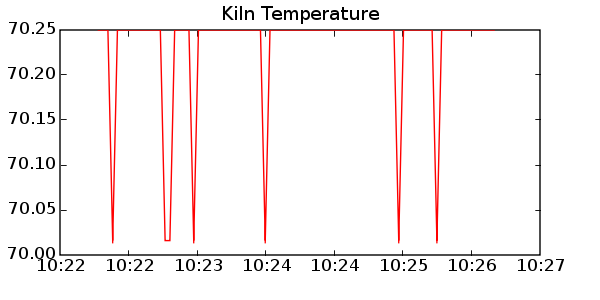
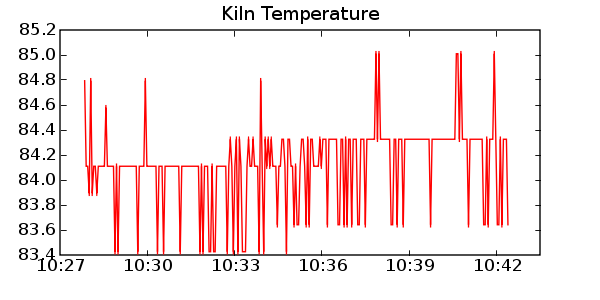
This is after a bunch of work with the wx widgets version, changing over to the matplotlib wxbackground api instead of pylab and static images.

diff --git a/wxgauge/wxthermo_working_copy.py b/wxgauge/wxthermo_working_copy.py
@@ -1,21 +1,18 @@
 #!/usr/bin/python
 
 import wx,os,sys,math,time,matplotlib
-matplotlib.interactive(False)
-#Use the WxAgg back end. The Wx one takes too long to render
-matplotlib.use('WX')
-from matplotlib.backends.backend_wxagg import Toolbar,FigureCanvasWx,FigureManager
-from matplotlib.figure import Figure
+from datetime import datetime
+from pygame.locals import *
 from matplotlib.dates import date2num
 from matplotlib.dates import num2date
 from matplotlib.dates import DateFormatter
 from matplotlib.dates import HourLocator, MinuteLocator
 from matplotlib.ticker import Locator, FormatStrFormatter
-
-from datetime import datetime
 from time import gmtime, strftime
 from thermo_functions import *
 
+matplotlib.use('Agg')
+import pylab
 
 
 class MainFrame(wx.Frame):
@@ -27,31 +24,20 @@ class MainFrame(wx.Frame):
         #Unique Sensor IDs
         self.id1 = '30ED284B1000008F'
         self.id2 = '3063294B100000BB'
-        #Starting Temperatures for the gauges
+        
         self.ambient_F = 70
         self.kiln_F = 1000
-        #Initialize the plot data arrays
         self.kiln_temp = []
         self.date = []
-        self.count = 0
-        self.x = []
-        #Setup the Plotting Figure and Canvas Load Blank Graph
-        self.figure = Figure((8,4) , 75)
-        self.canvas = FigureCanvasWx(self, -1, self.figure)
-        self.canvas.CenterOnParent()
-        self.toolbar = Toolbar(self.canvas)
-        self.toolbar.Realize()
-        self.load_graph()
-        #Instantiate the Two Thermometers One for the Kiln One for ambient
+        
         self.ambient=Thermometer('amb_F',0,0,os.path.join("images",'ambient_F.png'),self)
         self.kiln=Thermometer('kiln_F_H',675,0,os.path.join("images",'kiln_FH.png'),self)
-        #Startup the Event timer set it for 3 second roll over
+        
         self.timer = wx.Timer(self)
         self.Bind(wx.EVT_TIMER, self.onTick,self.timer)
         self.timer.Start(3000)
-        #Bind the screen redraws to the PaintAll method in the Thermometer Class
-        self.Bind(wx.EVT_PAINT, self.PaintAll)
         
+        self.Bind(wx.EVT_PAINT, self.PaintAll)
     
         
         #Menu Items
@@ -84,23 +70,25 @@ class MainFrame(wx.Frame):
         self.ambient.OnPaint()
         self.kiln.OnPaint()
         
+        
         #Get Celcius From First Thermo
         self.celsius = get_celsius(self.id1)
         self.celsius_reverse = reverse_poly(self.celsius)
         self.ambient_F=(((self.celsius*9.0)/5.0)+32)
         time.sleep(1)
         
+        
         #Get uV from first Thermo
         self.uv = get_uv(self.id1)
         self.uv = self.uv + self.celsius_reverse
         self.temp_uv = convert_uv(self.uv)
         self.kiln_F = (((self.temp_uv*9.0)/5.0)+32)
-        
         #Make sure thermo measurement is not less then ambient
         if (self.kiln_F < self.ambient_F):
             self.kiln_F = self.ambient_F
         
-        print "Ambient===>",self.ambient_F,"kiln Temp===>",self.kiln_F
+        #time.sleep(1)
+        
         
         """
         #------------------------------------------------
@@ -118,37 +106,43 @@ class MainFrame(wx.Frame):
             self.kiln_F = sensor_average
         """
         
+        
         #Update the thermometer displays
         self.ambient.update_gauge(self.ambient_F)
         #self.kiln.update_gauge(self.kiln_F)
         self.kiln.update_gauge(1200)         
     
+        
         #Update the Graph
         self.kiln_temp.append(self.kiln_F)
         self.date.append(date2num(datetime.now()))
-  
-        self.x.append(self.count)
-        self.count = self.count + 1
-        self.draw_graph()   
-    
+        self.load_graph()
+            
+        
+            
     def load_graph(self):
-        self.subplot = self.figure.add_subplot(111)
-        #self.subplot.plot(self.date, self.kiln_temp, 'r-', linewidth = 1)
-        self.subplot.plot(self.x, self.kiln_temp, 'r-', linewidth = 1)
-        
-        #Set some plot attributes
-        self.subplot.set_title(r"Kiln Temperature")
-        
-        #ax.xaxis.set_major_formatter(DateFormatter('%H:%M'))
-        #xlabels = ax.get_xticklabels()
-        #ylabels = ax.get_yticklabels()
+        pylab.figure(num = 1, figsize=(6, 3))
+        ax = pylab.gca() #get the current graphics region 
+        #Set the axes position with pos = [left, bottom, width, height]
+        ax.set_position([.1,.15,.8,.75])
+        pylab.plot(self.date, self.kiln_temp, 'r-', linewidth = 1)
+    
+        pylab.title(r"Kiln Temperature")
+        ax.xaxis.set_major_formatter(DateFormatter('%H:%M'))
+        xlabels = ax.get_xticklabels()
+        #pylab.setp(xlabels,'rotation', 45, fontsize=10)
+
+        ylabels = ax.get_yticklabels()
         #pylab.setp(ylabels,fontsize=10)
     
-    def draw_graph(self):
-        #self.subplot.plot(self.date, self.kiln_temp, 'r-', linewidth = 1)
-        self.subplot.plot(self.x, self.kiln_temp, 'r-', linewidth = 1)
-        self.canvas.draw()
-
+        pylab.savefig('graph.png')
+        pylab.close(1)
+        
+        self.graph=wx.Bitmap('graph.png')
+        #Warning Warning may want to change device construct
+        self.dc = wx.PaintDC(self)
+        self.dc.DrawBitmap(self.graph, 100, 20)
+        
     def openfile(self, event):
         dlg = wx.FileDialog(self, "Choose a file", os.getcwd(), "", "*.*", wx.OPEN)
         if dlg.ShowModal() == wx.ID_OK:
@@ -180,10 +174,12 @@ class Thermometer:
         self.gauge=wx.Bitmap(self.filename)
         self.frame = frame
         
+     
     def OnPaint(self):
         self.dc = wx.PaintDC(self.frame)
         self.dc.DrawBitmap(self.gauge, self.x, self.y)
         
+       
     def update_gauge(self,temp):
         temp = round(temp,2)
         if(self.scale == 'amb_F'):  #Ambient Farenheit Scale            
@@ -197,6 +193,7 @@ class Thermometer:
             self.dc.DrawLine(self.x+58, 330, self.x+58, self.length)
         return
         
+
 class MyApp(wx.App):
     def OnInit(self):
         frame = MainFrame(None, -1, 'PyroLogger')

diff --git a/wxgauge/thermo_functions.py b/wxgauge/thermo_functions.py
@@ -9,7 +9,8 @@ def get_faren(address):
 	ser.write("F")
 	ser.write(address)
 	ser.write("\r")
-	line = ser.read(5)
+	#line = ser.read(5)
+	line = ser.readline()
 	ser.flushInput()
 	return line
 
@@ -19,7 +20,8 @@ def get_celsius(address):
 	ser.write("C")
 	ser.write(address)
 	ser.write("\r")
-	line = ser.read(5)
+	#line = ser.read(5)
+	line = ser.readline()
 	ser.flushInput()
 	return float(line)
 
@@ -29,7 +31,8 @@ def get_uv(address):
 	ser.write("K")
 	ser.write(address)
 	ser.write("\r")
-	line = ser.read(9)
+	#line = ser.read(9)
+	line = ser.readline()
 	ser.flushInput()
 	return float(line)
 
